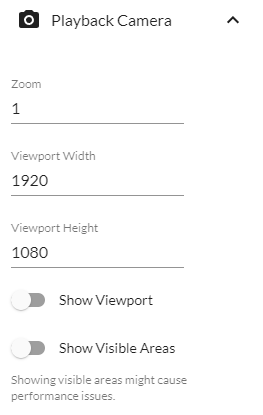
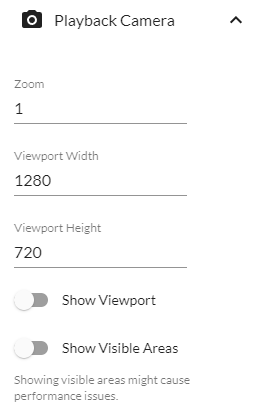
camera tutorial

diff --git a/pages/basic_tutorials/camera.md b/pages/basic_tutorials/camera.md
@@ -3,10 +3,20 @@ layout: page
 title: Camera
 parent: Basic Tutorials
 permalink: /basic-tutorials/camera/
-redirect_to: /wip
 ---
 
-Info about camera
+This is the camera field, where camera zoom and dimensions can be set. This can be found in the settings tab of the sidebar.
 
-- Rider focus setting
-- Camera dimensions configuration
+<img alt="The camera settings area" src="{{site.baseurl}}/assets/camera-settings.png" width="200" style="border: 2px solid gray">
+
+The zoom value can used to set the static zoom of the camera during playback. For the viewport field, any viewport width and height is available, but the recommended viewport size to work with is 720p, which is easier to see on smaller monitors and is supported by most video sharing sites. When filling in the camera dimensions, new options appear.
+
+<img alt="The camera settings area with the viewport fields filled in" src="{{site.baseurl}}/assets/camera-settings-loaded.png" width="200" style="border: 2px solid gray">
+
+The `Show Viewport` toggle shows the viewport and camera collision box during playback. The viewport can be affected by zoom levels, camera panning, and rider focus that can be altered by settings and scripts, and the camera collision box can currently only be edited with a script. The `Show Visible Areas` toggle dims parts of the track that are invisible to the camera, which is helpful for removing lines not seen during playback.
+
+These are some of the camera settings found in the riders section of the sidebar settings.
+
+<img alt="The rider settings area with multiple riders" src="{{site.baseurl}}/assets/rider-settings-multi.png" width="200" style="border: 2px solid gray">
+
+The `Playback Camera Focus` checkboxes determine which riders the camera should focus on. If multiple checkboxes are selected, the camera will focus between those riders. This can get overridden by scripts. The `Keep Rider in View While Scrubbing` toggle can enable and disable whether the camera should keep focus on the rider when using the timeline separate from playing the track. The `Editor Camera Focus` option is only available if the keep rider in view toggle is enabled, and determines which rider the editor camera should follow during timeline navigation.

diff --git a/pages/basic_tutorials/audio.md b/pages/basic_tutorials/audio.md
@@ -7,10 +7,10 @@ permalink: /basic-tutorials/audio/
 
 This is the audio field, where music or other audio files can be loaded to play over the track. This can be found in the settings tab of the sidebar.
 
-<img alt="The load audio area" src="{{site.baseurl}}/assets/audio-setting.png" width="200" style="border: 2px solid gray">
+<img alt="The load audio area" src="{{site.baseurl}}/assets/audio-settings.png" width="200" style="border: 2px solid gray">
 
 You can load audio of any supported format, such as mp3 or ogg. When loading an audio file, these are the settings presented.
 
-<img alt="The load audio area with a loaded audio file" src="{{site.baseurl}}/assets/audio-setting-loaded.png" width="200" style="border: 2px solid gray">
+<img alt="The load audio area with a loaded audio file" src="{{site.baseurl}}/assets/audio-settings-loaded.png" width="200" style="border: 2px solid gray">
 
-The enable slider can toggle the audio, where disabling the audio is the same as setting the volume slider to 0. The volume setting controls how loud the audio plays, and the offset setting controls at what point the audio starts playing from. A negative offset starts the audio at some point in the middle, while a positive offset adds some delay before the audio starts.
+The `Enabled` toggle can enable and disable the audio, where disabling the audio is the same as setting the volume slider to 0. The `Volume` slider controls how loud the audio plays, and the `Start Time` field controls at what point the audio starts playing from. A negative start time plays the audio at some point in the middle, while a positive start time adds some delay before the audio plays.

diff --git a/pages/basic_tutorials/settings.md b/pages/basic_tutorials/settings.md
@@ -1,6 +1,6 @@
 ---
 layout: page
-title: Settings
+title: General Settings
 parent: Basic Tutorials
 permalink: /basic-tutorials/settings/
 redirect_to: /wip
